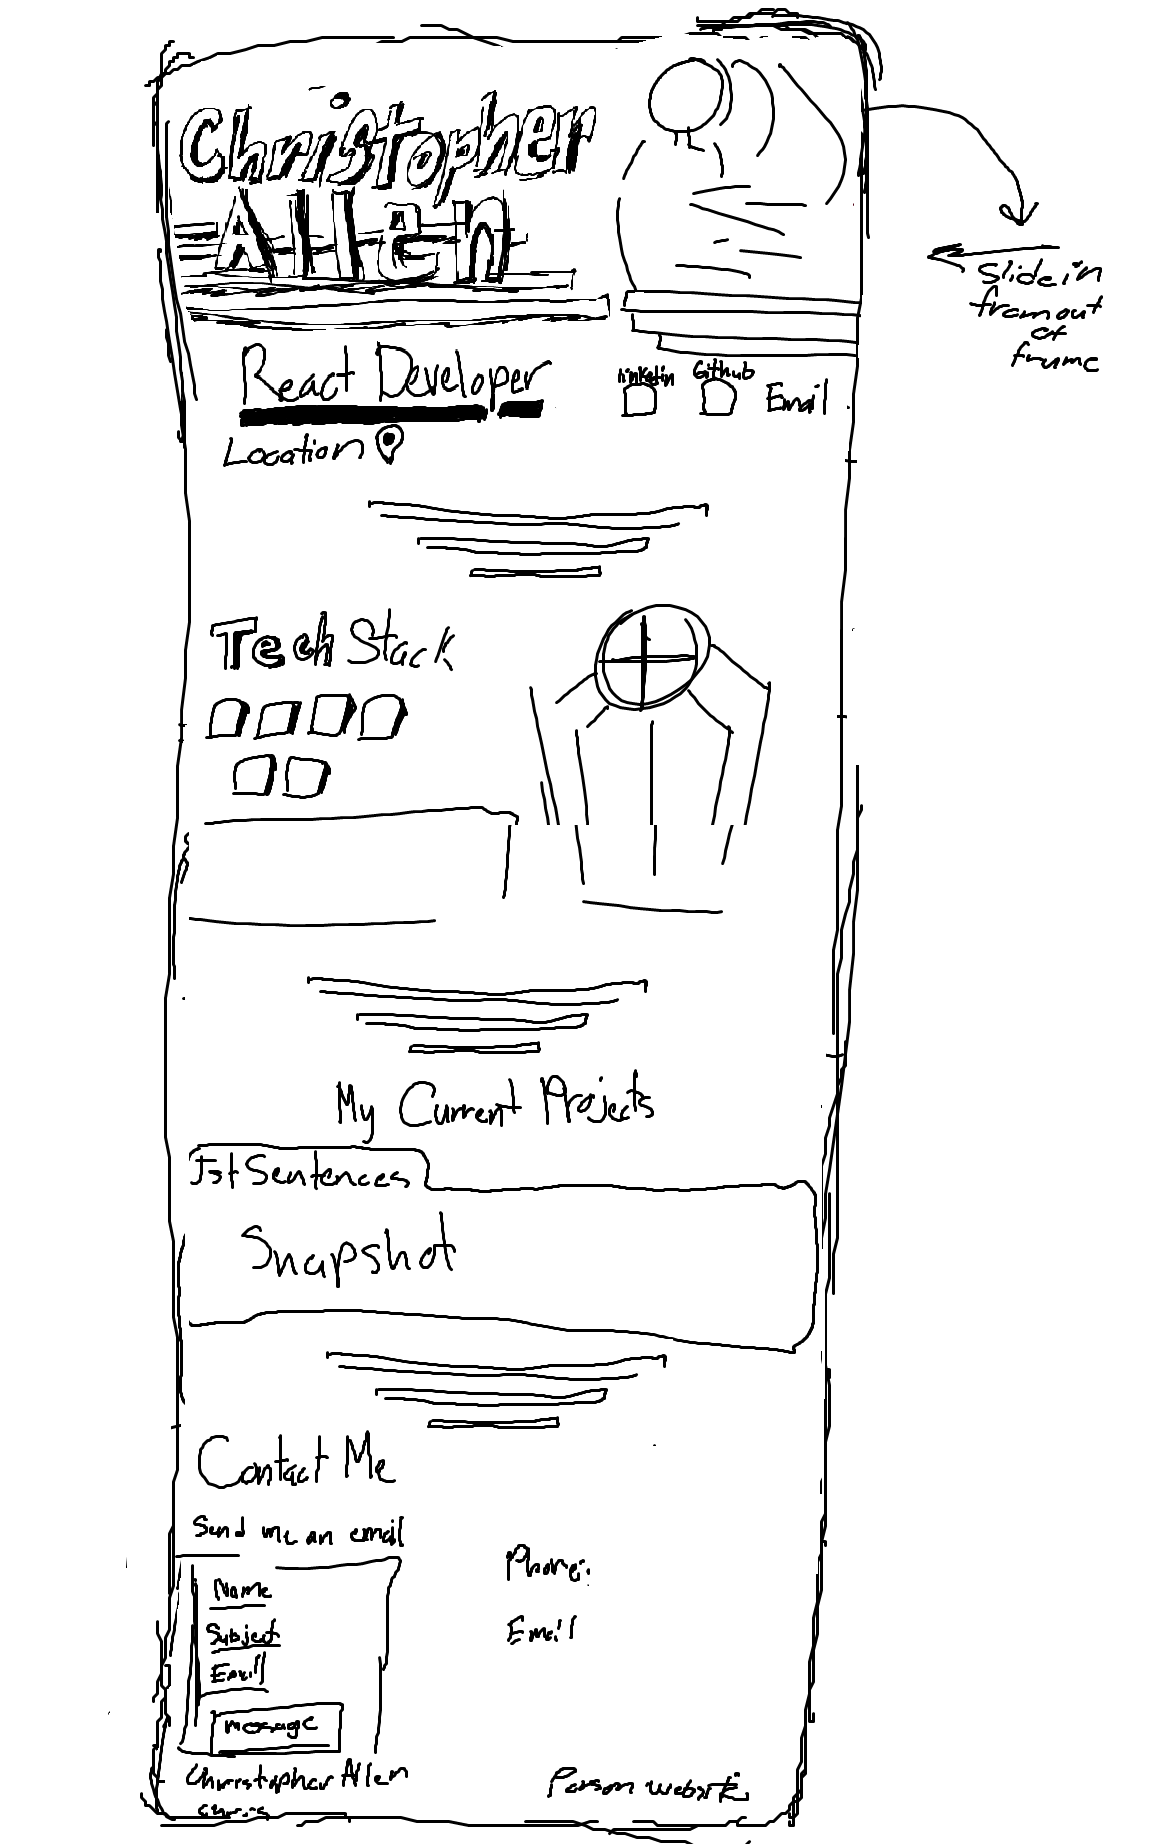
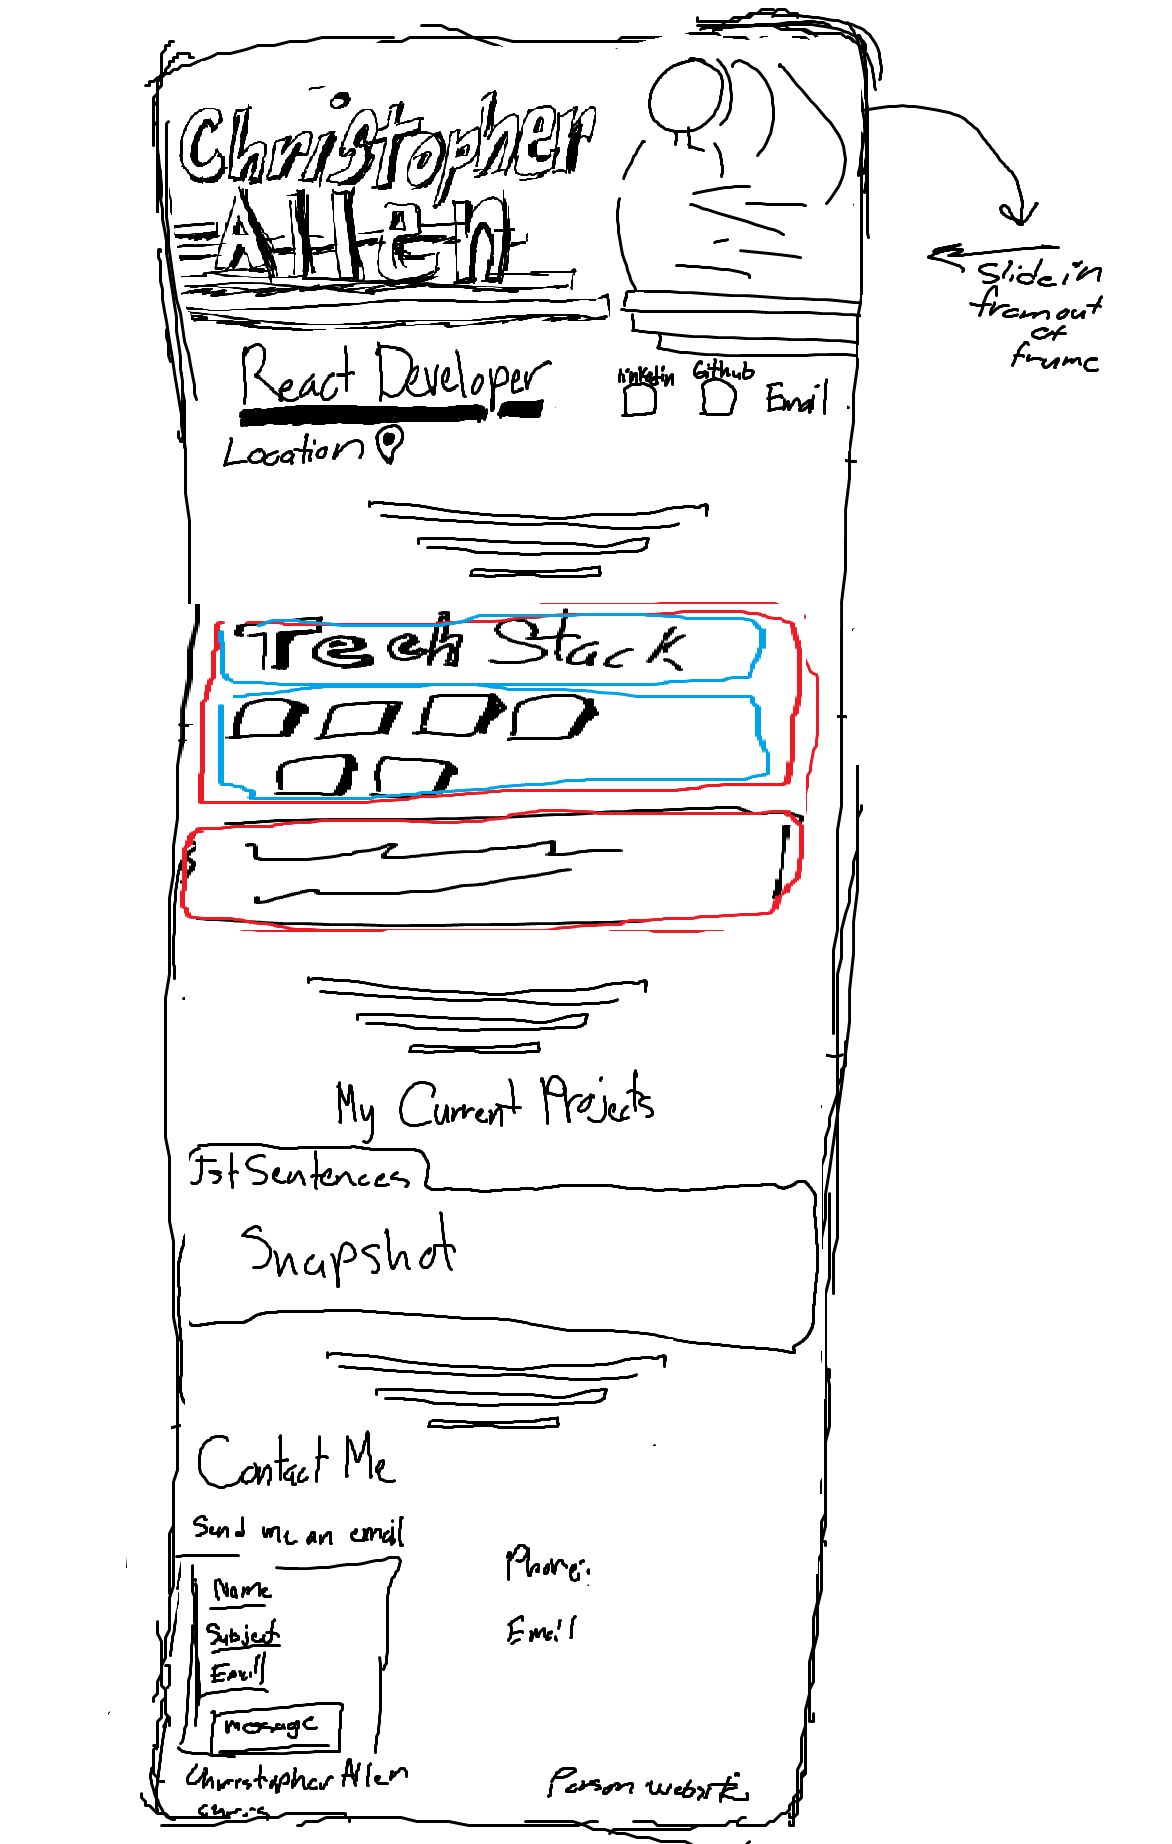
SectionTwo Done

Changed region(s): [[0.1536, 0.3091, 0.7065, 0.5255], [0.5529, 0.4946, 0.6143, 0.5255]]

diff --git a/src/components/SectionTwo/SectionTwo.js b/src/components/SectionTwo/SectionTwo.js
@@ -1,8 +1,33 @@
 import React from "react";
+import classes from './SectionTwo.module.css';
 
-const SectionTwo = (props) => {
+//Logos
+import {FaReact} from 'react-icons/fa';
+import {IoLogoJavascript} from 'react-icons/io'
+import {DiHtml5, DiCss3, DiNodejs} from 'react-icons/di';
+
+const SectionTwo = () => {
     return (
-        <div></div>
+        <div className={classes.SectionTwoContainer}>
+            <div className={classes.AboutMe}>
+                <div className={classes.AboutMeTitle}>
+                    <p>About Me</p>
+                </div>
+                <p>Lorem ipsum dolor sit amet,consectetur adipiscing elit, sed do eiusmod tempor incididunt ut labore et dolore magna aliqua. Fringilla est ullamcorper eget nulla facilisi etiam dignissim diam. Quis blandit turpis cursus in. Nullam non nisi est sit amet facilisis. Suscipit tellus mauris a diam maecenas sed enim ut.</p>
+            </div>
+            <div className={classes.TechStackContainer}>
+                <div className={classes.TechStackTitle}>
+                    <p>Tech Stacks</p>
+                </div>
+                <div className={classes.TechStackIcons}>
+                    <FaReact />
+                    <IoLogoJavascript />
+                    <DiHtml5 />
+                    <DiCss3 />
+                    <DiNodejs />
+                </div>
+            </div>
+        </div>
     );
 };
 

diff --git a/src/components/SectionTwo/SectionTwo.module.css b/src/components/SectionTwo/SectionTwo.module.css
@@ -1,0 +1,53 @@
+.SectionTwoContainer {
+    height: 100vh;
+    width: 100%;
+    display: flex;
+    flex-direction: column;
+    align-items: center;
+    box-sizing: border-box;
+}
+
+.TechStackContainer {
+    height: 100%;
+    width: 100%;
+    background-color: aliceblue;
+    display: flex;
+    flex-direction: column;
+    align-items: center;
+    text-align: center;
+}
+
+.TechStackTitle {
+    font-size: 3.5rem;
+    text-decoration: underline;
+}
+
+.TechStackTitle p {
+    margin-top: 0;
+}
+
+.TechStackIcons {
+    display: flex;
+    justify-content: center;
+    align-items: center;
+    font-size: 5rem;
+    background-color: rgb(44, 44, 138);
+    border-radius: 25px;
+    width: 80%;
+    color: white;
+    padding: 2% 0;
+}
+
+.AboutMe {
+    color: aliceblue;
+    background-color: rgb(44, 44, 138);
+    height: 100%;
+    width: 100%;
+    display: flex;
+    flex-direction: column;
+    justify-content: flex-start;
+}
+
+.AboutMeTitle {
+    font-size: 3rem;
+}

diff --git a/src/components/SectionOne/SectionOne.js b/src/components/SectionOne/SectionOne.js
@@ -78,8 +78,9 @@ const SectionOne = () => {
                         <p className={classes.ReactTitle}>React Developer</p>
                         <div className={classes.Location}>
                             <p>From Magnolia, TX</p>
-                            <span className="material-symbols-outlined">
-                                location_on</span>
+                            <span
+                            className={[classes.LocationLogo, "material-icons"].join(' ')}
+                            >location_on</span>
                         </div>
                         <div className={classes.SectionOneLinks}>
                             <img

diff --git a/src/components/SectionOne/SectionOne.module.css b/src/components/SectionOne/SectionOne.module.css
@@ -48,6 +48,10 @@
     color: aliceblue;
 }
 
+.LocationLogo {
+    font-size: 24px;
+}
+
 .SectionOneInfoContainer {
     background-color: aliceblue;
     padding-top: 15%;
@@ -61,10 +65,10 @@
     text-align: center;
     margin-left: 10%;
     height: 10%;
-    width: 30%;
+    width: 20%;
     background-color: rgb(44, 44, 138);
     color: white;
-    border-radius: 5px;
+    border-radius: 25px;
     display: flex;
     justify-content: center;
     align-items: center;

diff --git a/src/App.css b/src/App.css
@@ -1,4 +1,4 @@
 .App {
   text-align: center;
-  background-color: green;
+  background-color: thistle;
 }
